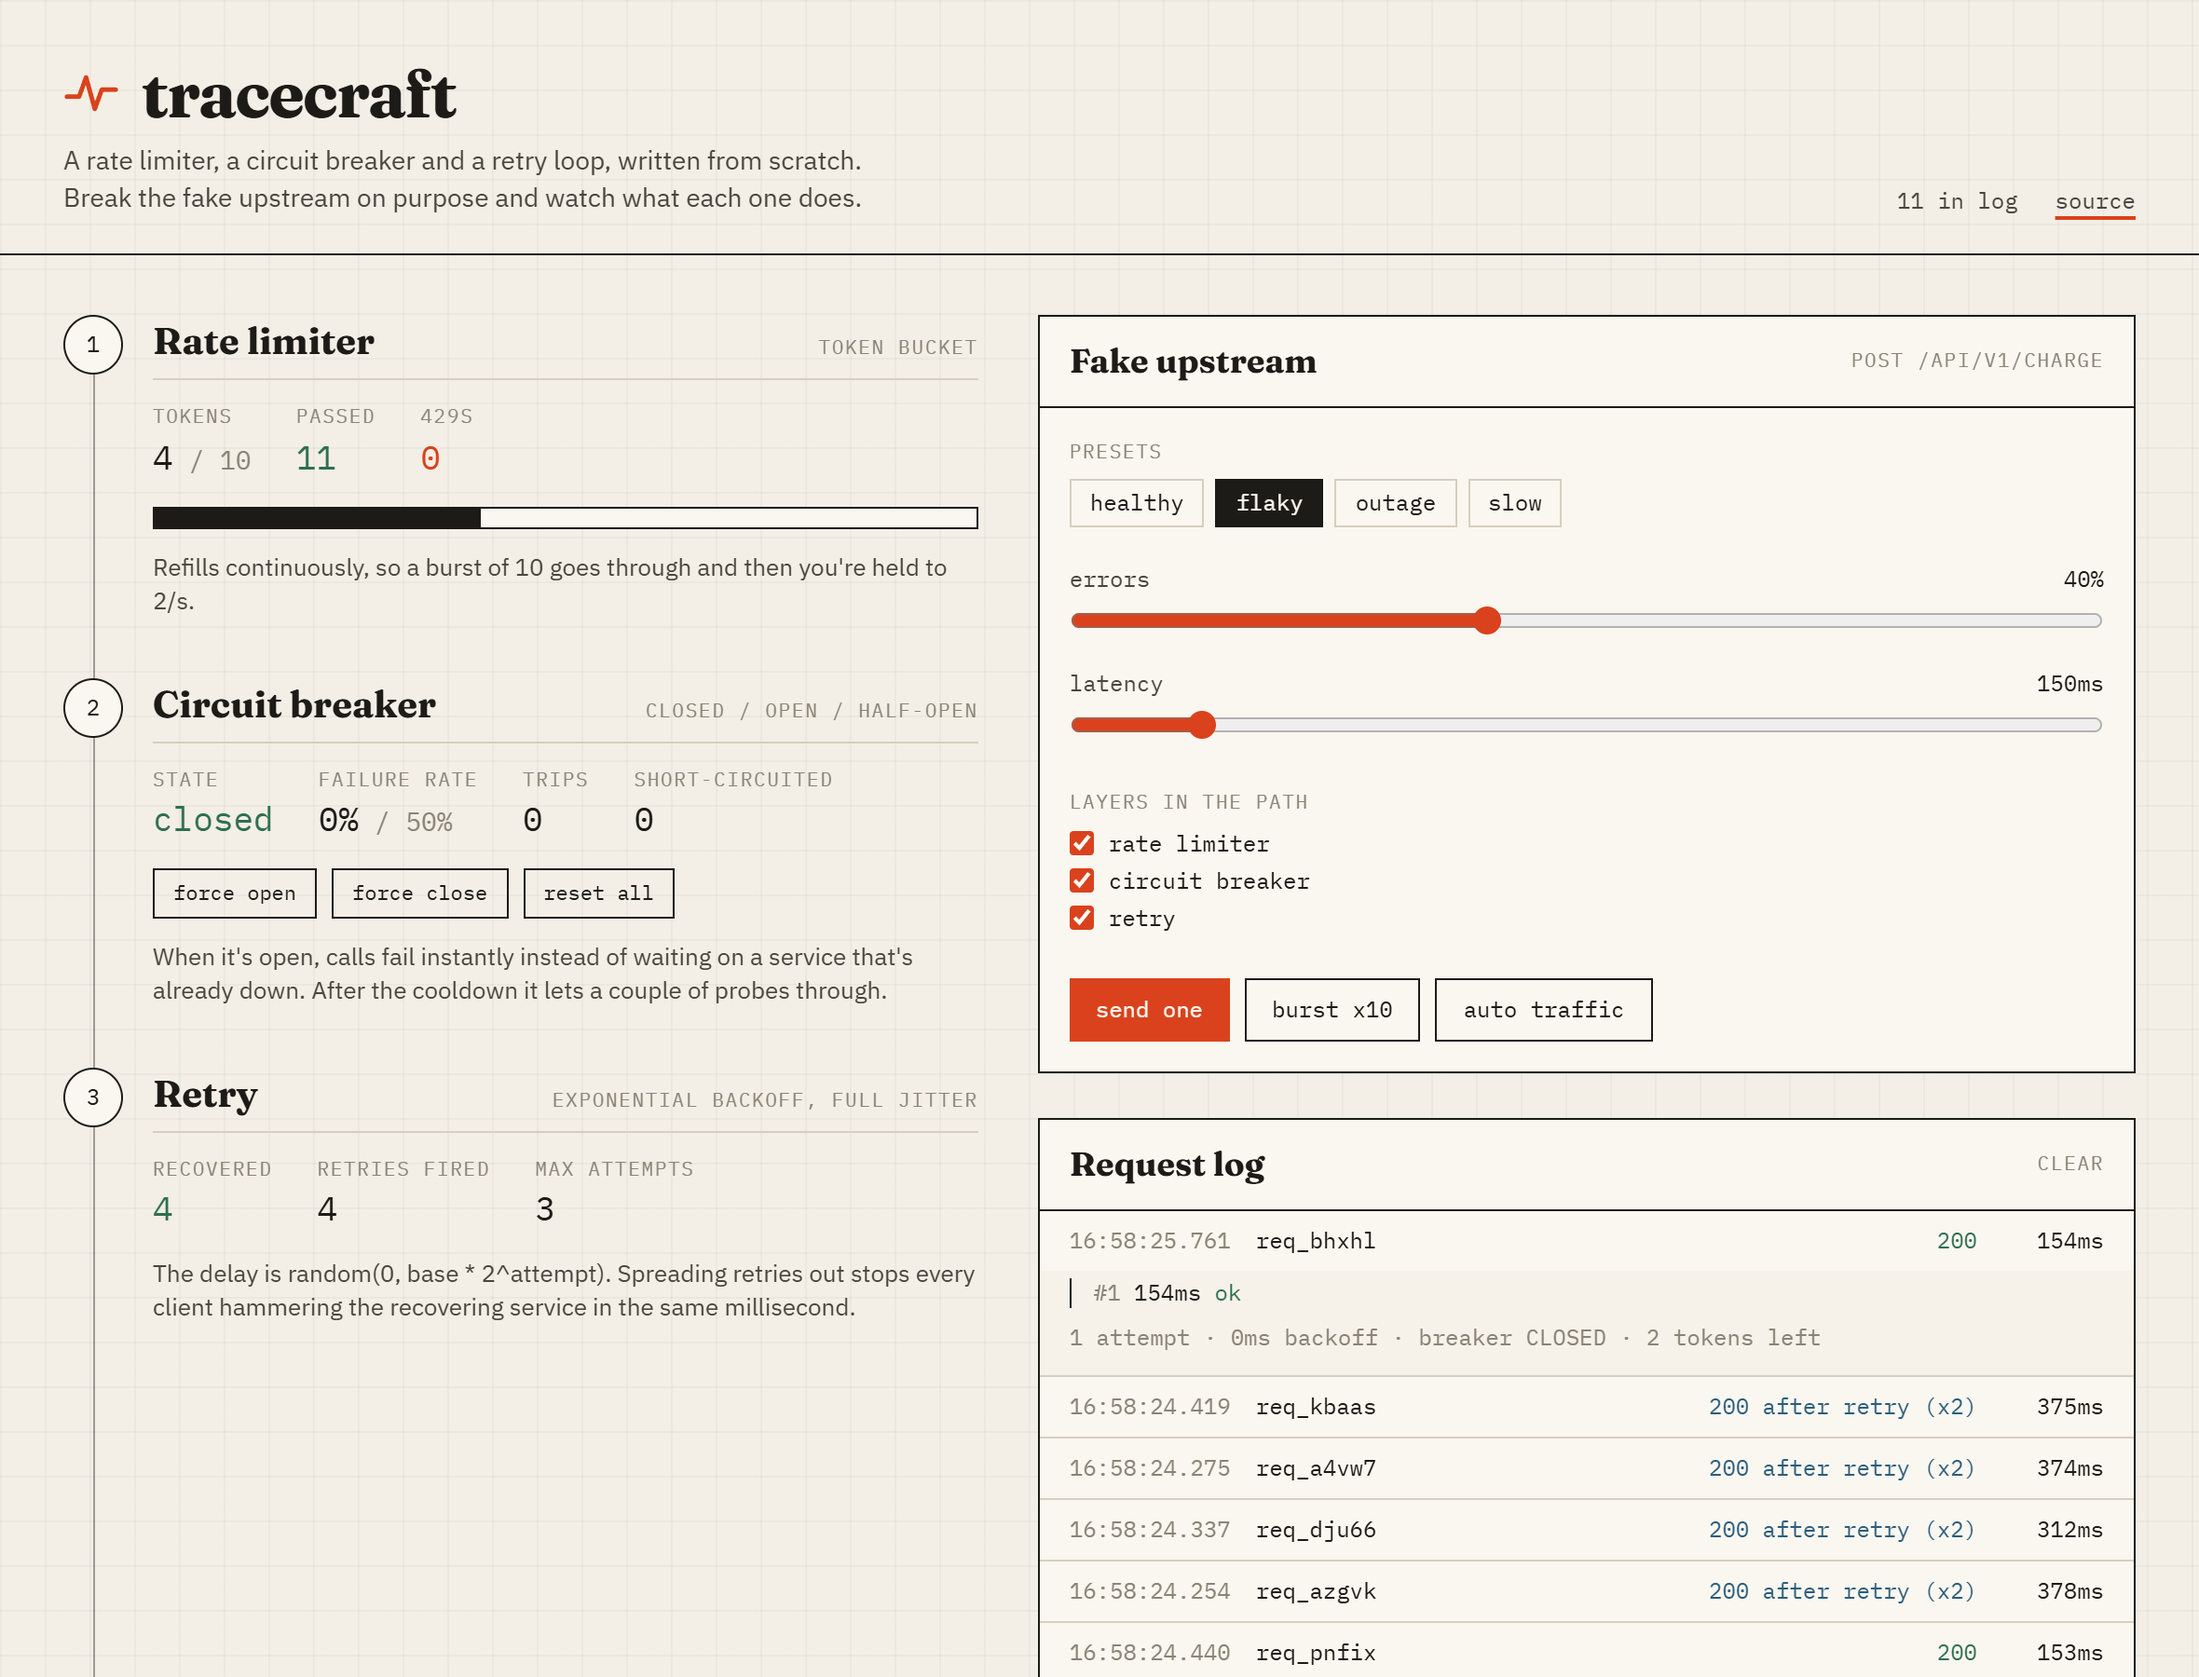
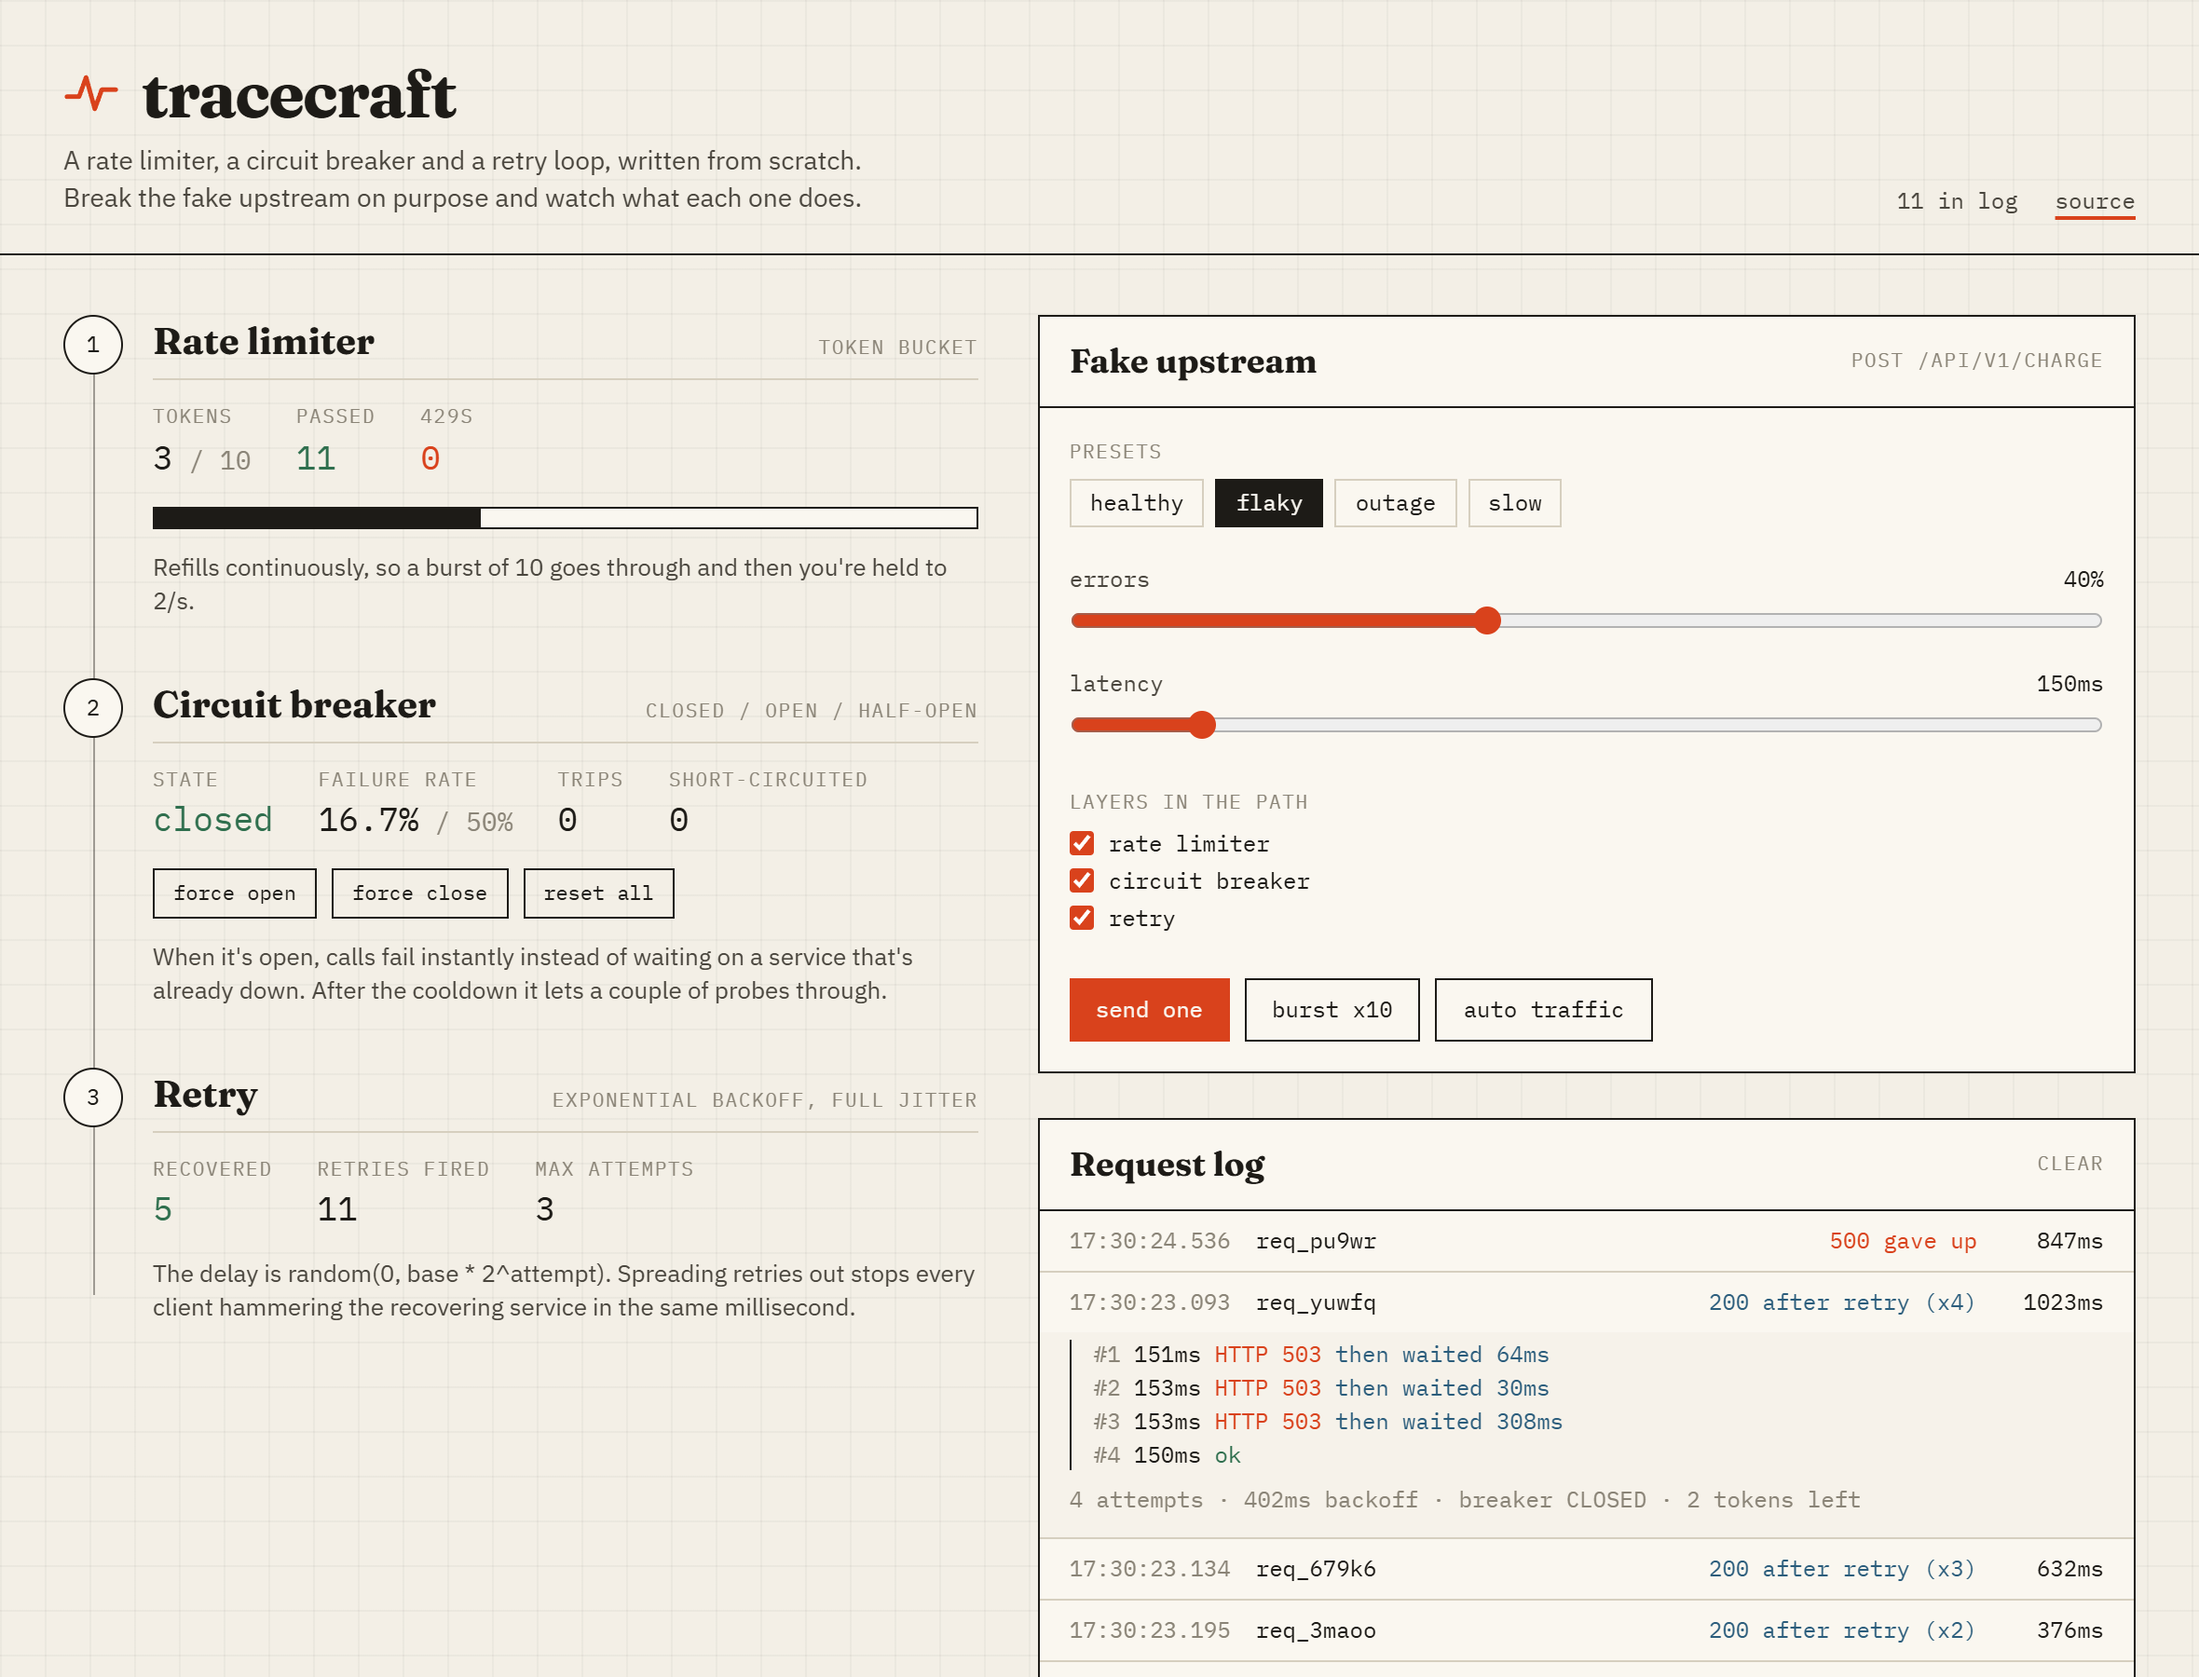
ui: fix small-screen wrapping and spine height, plain code samples, new screenshot

diff --git a/src/components/CodeSnippet.tsx b/src/components/CodeSnippet.tsx
@@ -3,9 +3,8 @@ import React, { useState } from 'react';
 export const CodeSnippet: React.FC = () => {
   const [tab, setTab] = useState<'pipeline' | 'circuit' | 'retry'>('pipeline');
 
-  const pipelineCode = `import { ResiliencePipeline, CircuitBreaker, TokenBucketRateLimiter } from 'tracecraft';
+  const pipelineCode = `import { ResiliencePipeline, CircuitBreaker, TokenBucketRateLimiter } from './resilience';
 
-// 1. Configure the pipeline with the 3 resilience layers
 const pipeline = new ResiliencePipeline({
   name: 'payment-gateway',
   rateLimiter: new TokenBucketRateLimiter({ capacity: 10, refillRatePerSec: 2 }),
@@ -13,39 +12,36 @@ const pipeline = new ResiliencePipeline({
   retryPolicy: { maxRetries: 3, baseDelayMs: 100 },
 });
 
-// 2. Wrap your external HTTP call
 const response = await pipeline.execute(
   async () => {
-    return await fetch('https://api.stripe.com/v1/charges', { method: 'POST' });
+    return await fetch('https://example.com/charge', { method: 'POST' });
   },
-  // Graceful fallback if downstream fails or circuit is OPEN
+  // used when the call fails for good or the breaker is open
   (error) => {
     return { status: 'queued_offline', message: error.message };
   }
 );`;
 
-  const circuitCode = `import { CircuitBreaker, CircuitState } from 'tracecraft';
+  const circuitCode = `import { CircuitBreaker, CircuitState } from './resilience';
 
 const breaker = new CircuitBreaker({
   name: 'postgres-db',
   slidingWindowSize: 10,
-  failureRateThreshold: 50,       // Trip when >=50% fail
-  waitDurationInOpenStateMs: 5000, // Probe after 5 seconds
+  failureRateThreshold: 50,
+  waitDurationInOpenStateMs: 5000,
 });
 
-// Listen to state transitions (CLOSED -> OPEN -> HALF_OPEN -> CLOSED)
 breaker.onStateChange((from, to, name) => {
   console.log(\`Circuit [\${name}] transitioned from \${from} to \${to}\`);
 });
 
 const result = await breaker.execute(
   () => db.query('SELECT * FROM users'),
-  () => ({ cachedData: true, rows: [] }) // Fallback
+  () => ({ cachedData: true, rows: [] })
 );`;
 
-  const retryCode = `import { RetryExecutor, JitterStrategy } from 'tracecraft';
+  const retryCode = `import { RetryExecutor, JitterStrategy } from './resilience';
 
-// Executes with Exponential Backoff + Full Jitter
 const { result, attempts, totalBackoffDelayMs } = await RetryExecutor.executeWithRetry(
   async (attempt) => {
     return await fetch('https://api.weather.com/data');
@@ -55,7 +51,7 @@ const { result, attempts, totalBackoffDelayMs } = await RetryExecutor.executeWit
     baseDelayMs: 100,
     maxDelayMs: 2000,
     jitter: JitterStrategy.FULL,
-    // Only retry transient 5xx errors; fail fast on 4xx user errors
+    // don't bother retrying 4xx
     retryableErrors: (err) => err.status >= 500,
   }
 );`;
@@ -72,7 +68,7 @@ const { result, attempts, totalBackoffDelayMs } = await RetryExecutor.executeWit
     <div className="border border-ink bg-card">
       <div className="px-4 py-2.5 border-b border-ink flex flex-wrap items-center justify-between gap-2">
         <h2 className="font-display text-lg font-bold">Using it</h2>
-        <div className="flex gap-4 font-mono text-xs">
+        <div className="flex flex-wrap gap-x-4 gap-y-1 font-mono text-xs">
           {tabs.map(([key, name]) => (
             <button
               key={key}

diff --git a/src/components/ResilienceCards.tsx b/src/components/ResilienceCards.tsx
@@ -30,9 +30,9 @@ const Stage: React.FC<{
     <div className="absolute left-0 top-0 w-8 h-8 rounded-full border border-ink bg-card flex items-center justify-center font-mono text-xs">
       {n}
     </div>
-    <div className="flex items-baseline justify-between gap-3 border-b border-rule pb-1.5 mb-3">
+    <div className="flex flex-wrap items-baseline justify-between gap-x-3 border-b border-rule pb-1.5 mb-3">
       <h3 className="font-display text-xl font-bold">{title}</h3>
-      <span className="label">{tag}</span>
+      <span className="label text-right">{tag}</span>
     </div>
     {children}
     <p className="mt-3 text-[13px] leading-snug text-ink-soft max-w-prose">{note}</p>
@@ -64,7 +64,7 @@ export const ResilienceCards: React.FC<ResilienceCardsProps> = ({
     'font-mono text-[11px] px-2.5 py-1 border border-ink hover:bg-ink hover:text-card transition-colors';
 
   return (
-    <div className="relative">
+    <div className="relative self-start">
       {/* the spine connecting the three stages */}
       <div className="absolute left-4 top-8 bottom-4 w-px bg-ink/40" aria-hidden />
 
